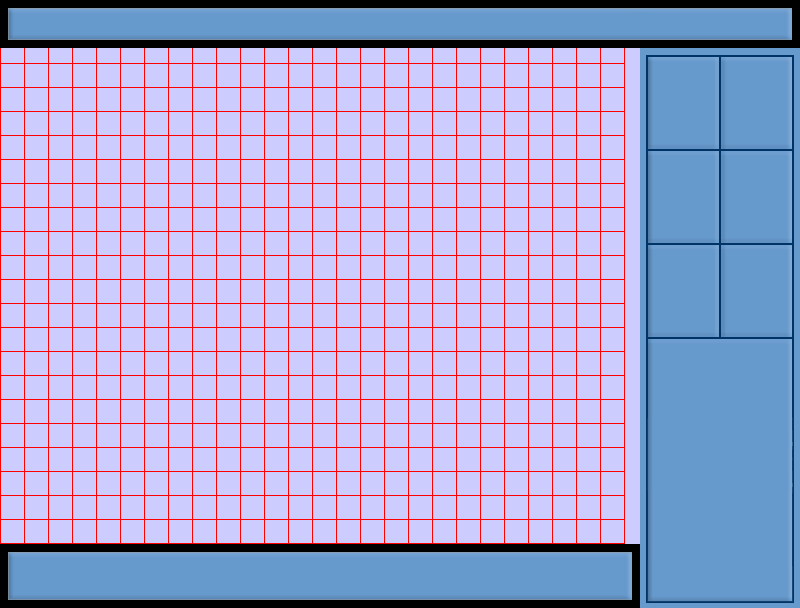
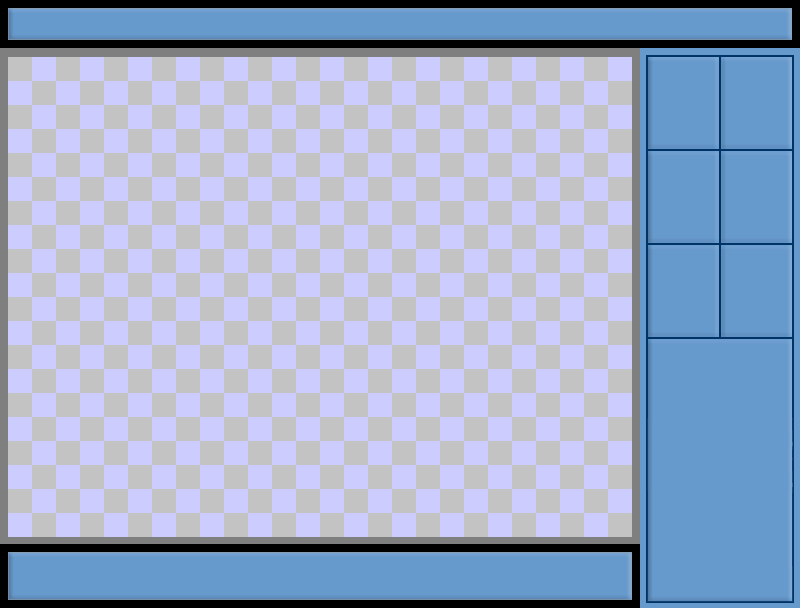
changed attack damage, and made a prettier background

diff --git a/Eight Minions/main.cpp b/Eight Minions/main.cpp
@@ -38,14 +38,10 @@ int main(int argc, char* argv[]){
 	}
 	else if(c == 3)
 	{
-		structure *newS = new structure(1, 2, STRUCTURE, 2, 3);
-		Standard_Tower *newST = new Standard_Tower(1, 1, NORMTOWER, 3, 5);
-		Creep_Tower *newCT = new Creep_Tower(1 , 2, FASTCREEPTOWER, 5, 6);
-
-		newST->upgradeClient();
-		newCT->upgradeClient();
-
-		int sell1 = newST->getSellReward();
+		//creep::creep(int t, int p, int l, int set_x, int set_y)
+		creep *test = new creep(2,1,3,5,5);
+		cout << test->getHealth() << " " << test->getArmor() << endl;
+		cout << test->damage(5,2) << endl;
 	}
 	else if(c == 4)
 	{

diff --git a/Eight Minions/resources.h b/Eight Minions/resources.h
@@ -105,8 +105,8 @@ const int titanCreepArr[MAXCREEPLEVEL][MAXCREEPVARIABLES] =		{{10,2,2,5,10,5},	{
 //Map Constants
 #define MAPSIZE_X 26
 #define MAPSIZE_Y 20
-#define BOARD_X_OFFSET 0
-#define BOARD_Y_OFFSET 63
+#define BOARD_X_OFFSET 8
+#define BOARD_Y_OFFSET 57
 #define GRID_SIZE 24
 
 //Screen Size Constants

diff --git a/Eight Minions/creep.h b/Eight Minions/creep.h
@@ -48,7 +48,7 @@ public:
 	bool move();
 	void recalcPath(vector<vector<bool>> nMap);
 
-	int damage(int damage, int armor);
+	int damage(int damage, int armorPen);
 	void kill();
 
 	void displayCreep(SDL_Surface *screen, SDL_Surface *image, SDL_Rect *spriteMap[ANIM_NUM]);

diff --git a/Eight Minions/creep.cpp b/Eight Minions/creep.cpp
@@ -114,6 +114,10 @@ int creep::damage(int d, int a)
 	{
 		calcD = calcD - (this->getArmor() - a);
 	}
+	else
+	{
+		calcD = 0;
+	}
 	this->health = this->health - calcD;
 	if(health <= 0)
 	{
